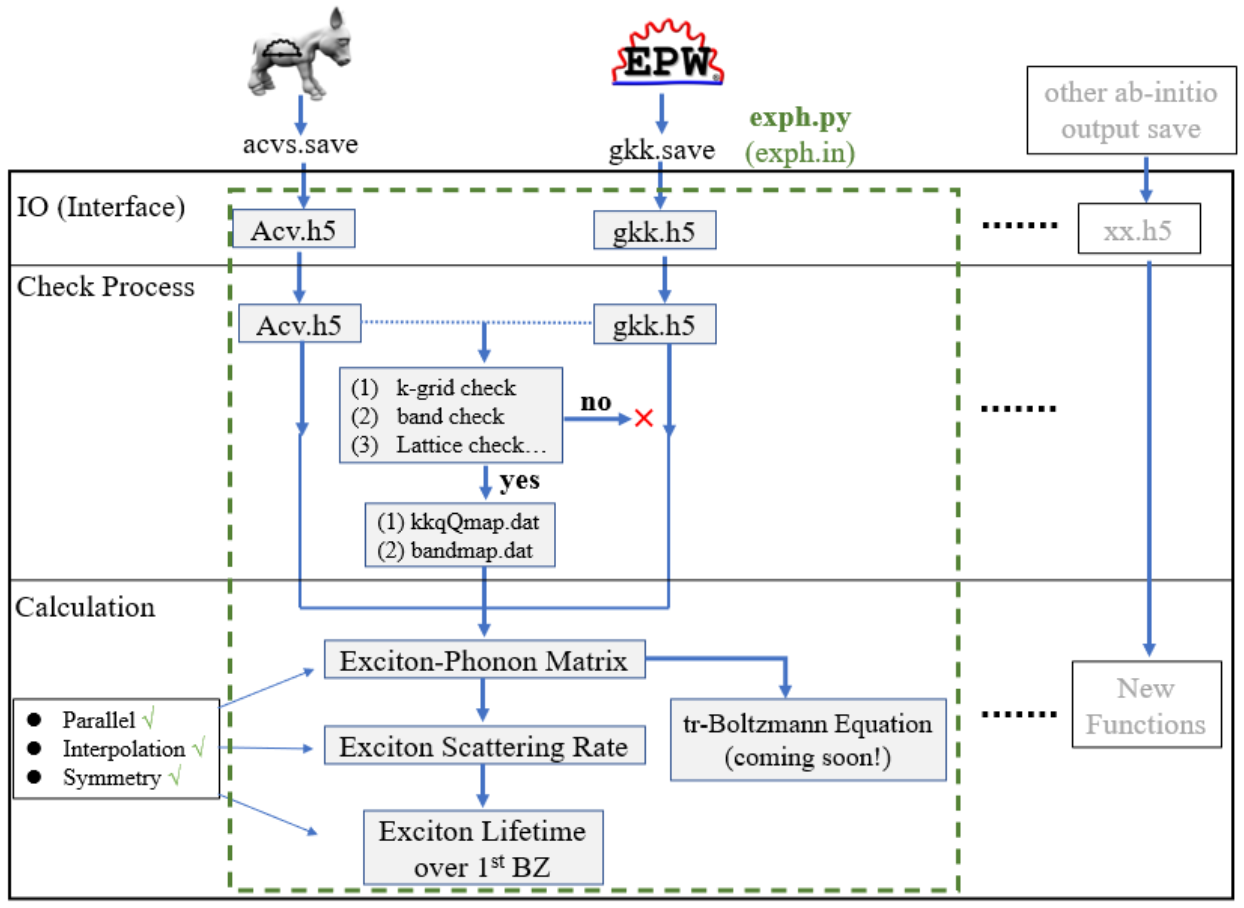
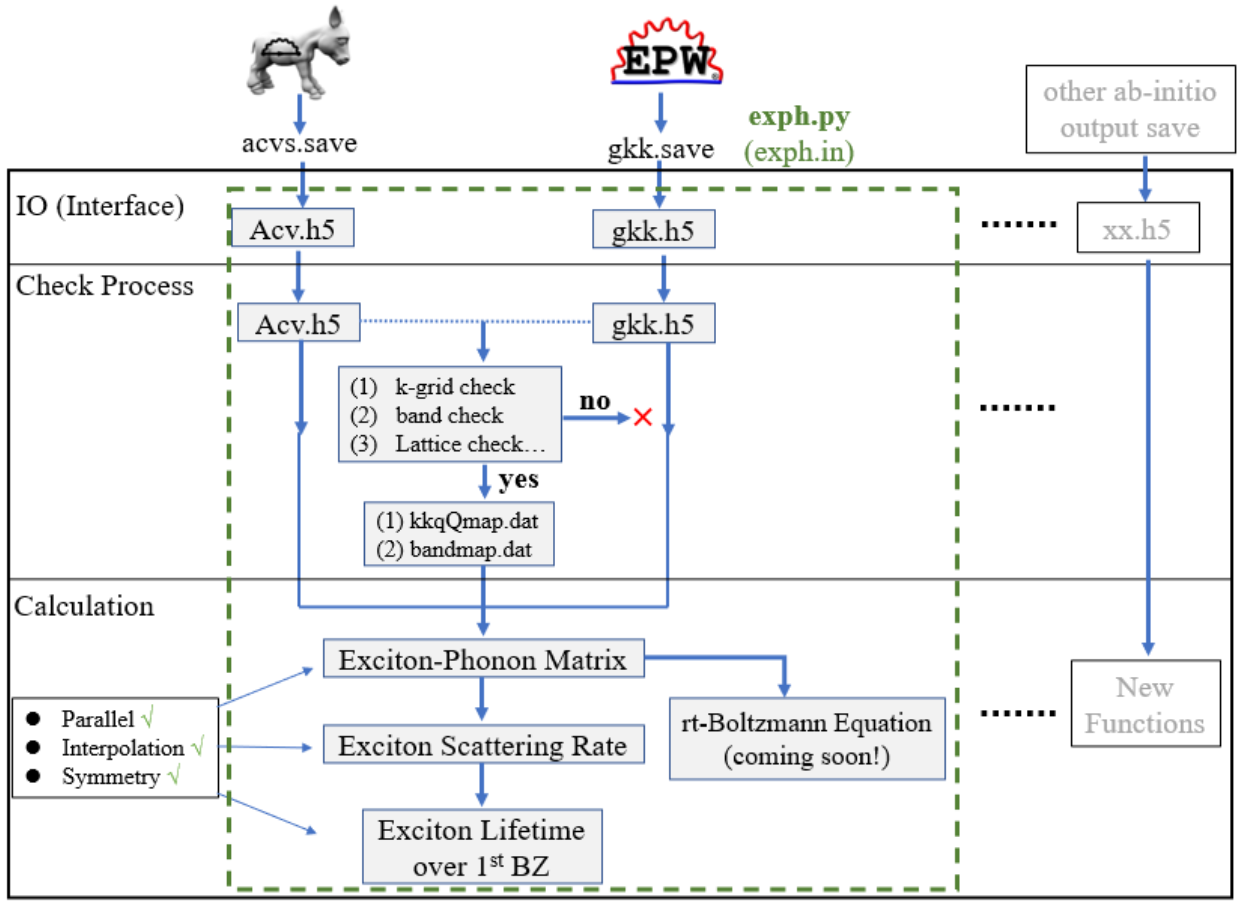
workflow updated

diff --git a/README.md b/README.md
@@ -19,7 +19,7 @@ Last Updated: 12/26/2022
 
 3. Exciton-Phonon Matrix (*new!*)
 
-4. tr-Boltzmann Equation (coming soon!)
+4. rt-Boltzmann Equation (coming soon!)
 
 **Other Properties**:
 
@@ -33,7 +33,7 @@ Last Updated: 12/26/2022
 
 5. Tutorial is available! (*new!*)
 
-6. Time complexity of exciton lifetime will be reduced to O(N^2) (coming soon!)
+6. Time complexity of exciton lifetime will be reduced to O(N^2) from O(N^2) (coming soon!) However, space complexity will increase.
 
 ## Workflow
 
